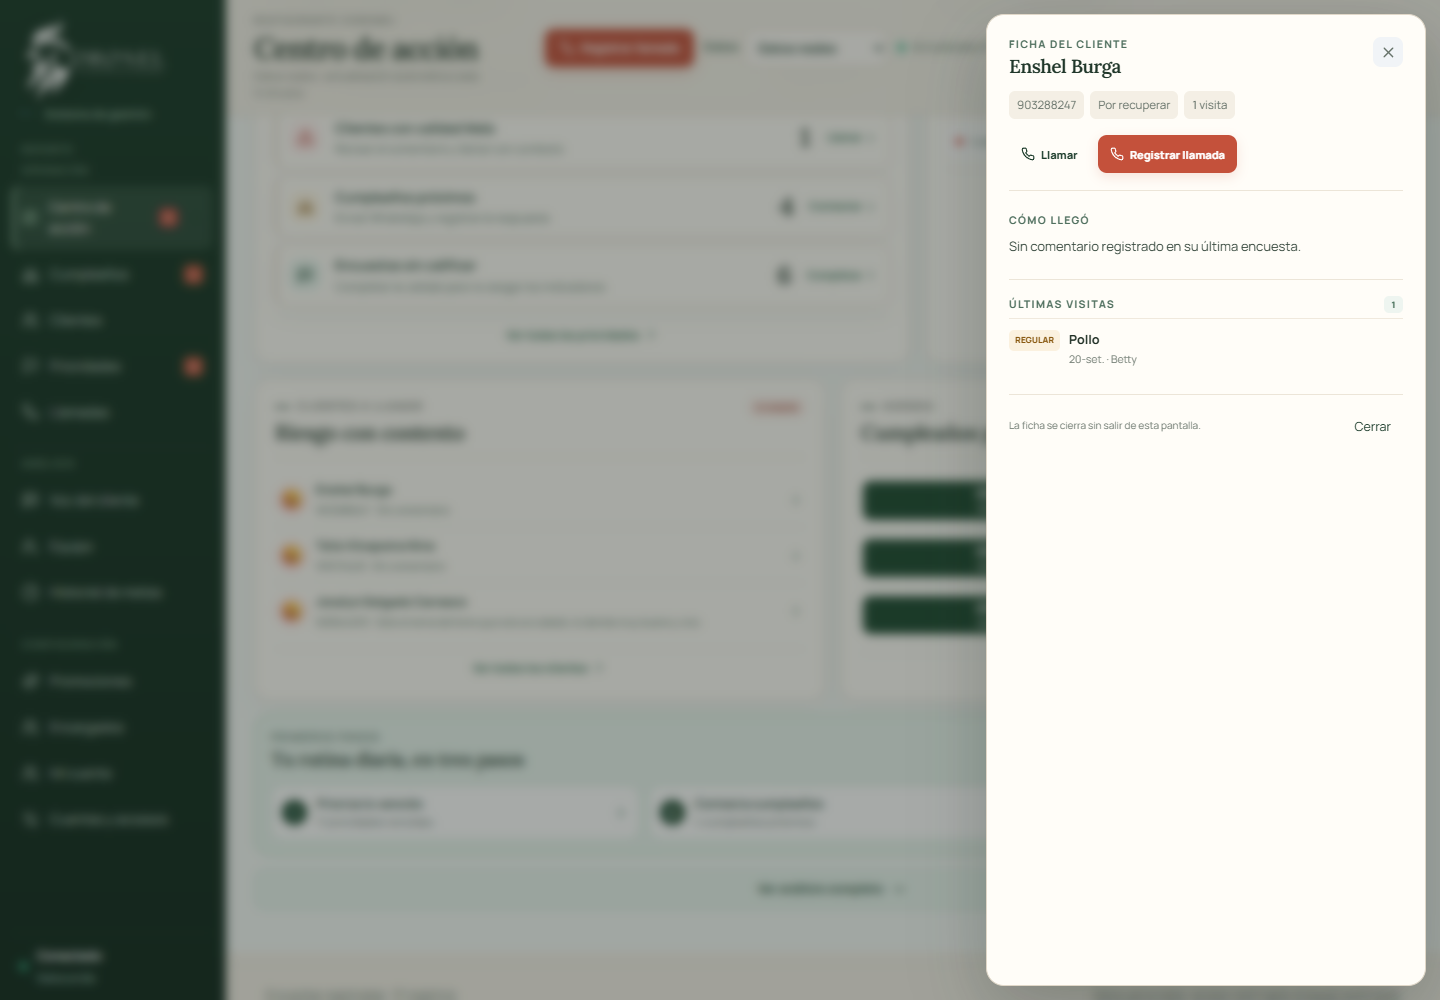
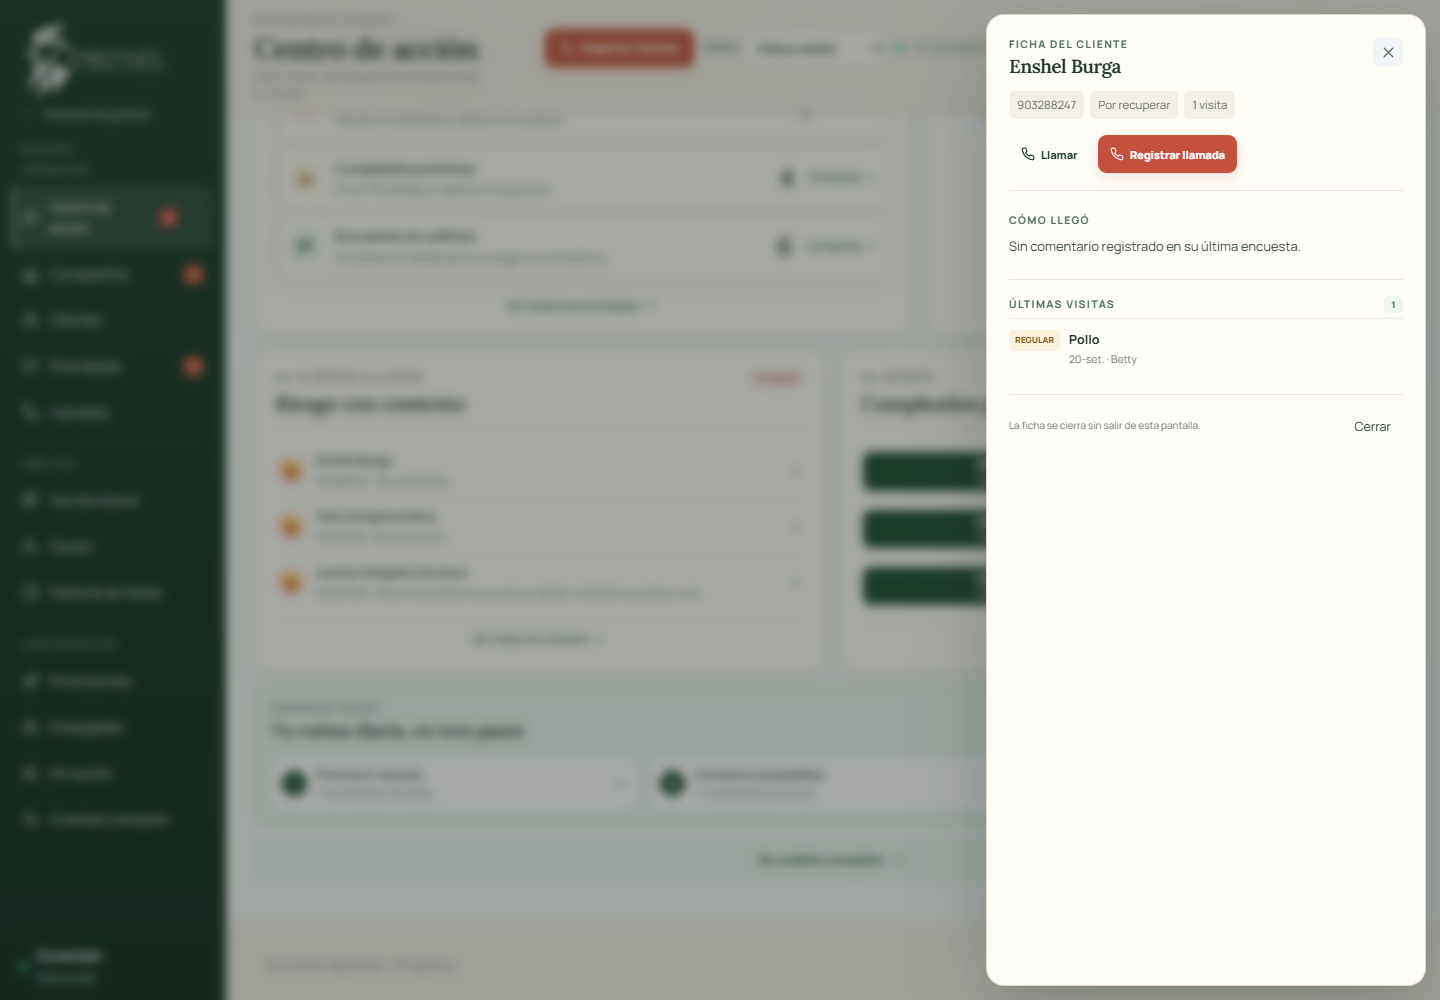
Ajustar altura de la ficha flotante a su contenido

diff --git a/client/src/index.css b/client/src/index.css
@@ -3515,3 +3515,7 @@ button[class*="bg-transparent"][class*="border"]:hover { background: #eef5ef !im
 /* La ficha se ajusta a su contenido, sin dejar un panel vacío enorme */
 .client-sheet { height: auto !important; max-height: calc(100vh - 28px); }
 @media (max-width: 760px) { .client-sheet { max-height: 88vh; } }
+
+/* Ficha alineada arriba y ajustada a su contenido */
+.client-sheet-backdrop { align-items: flex-start !important; }
+@media (max-width: 760px) { .client-sheet-backdrop { align-items: flex-end !important; } }
